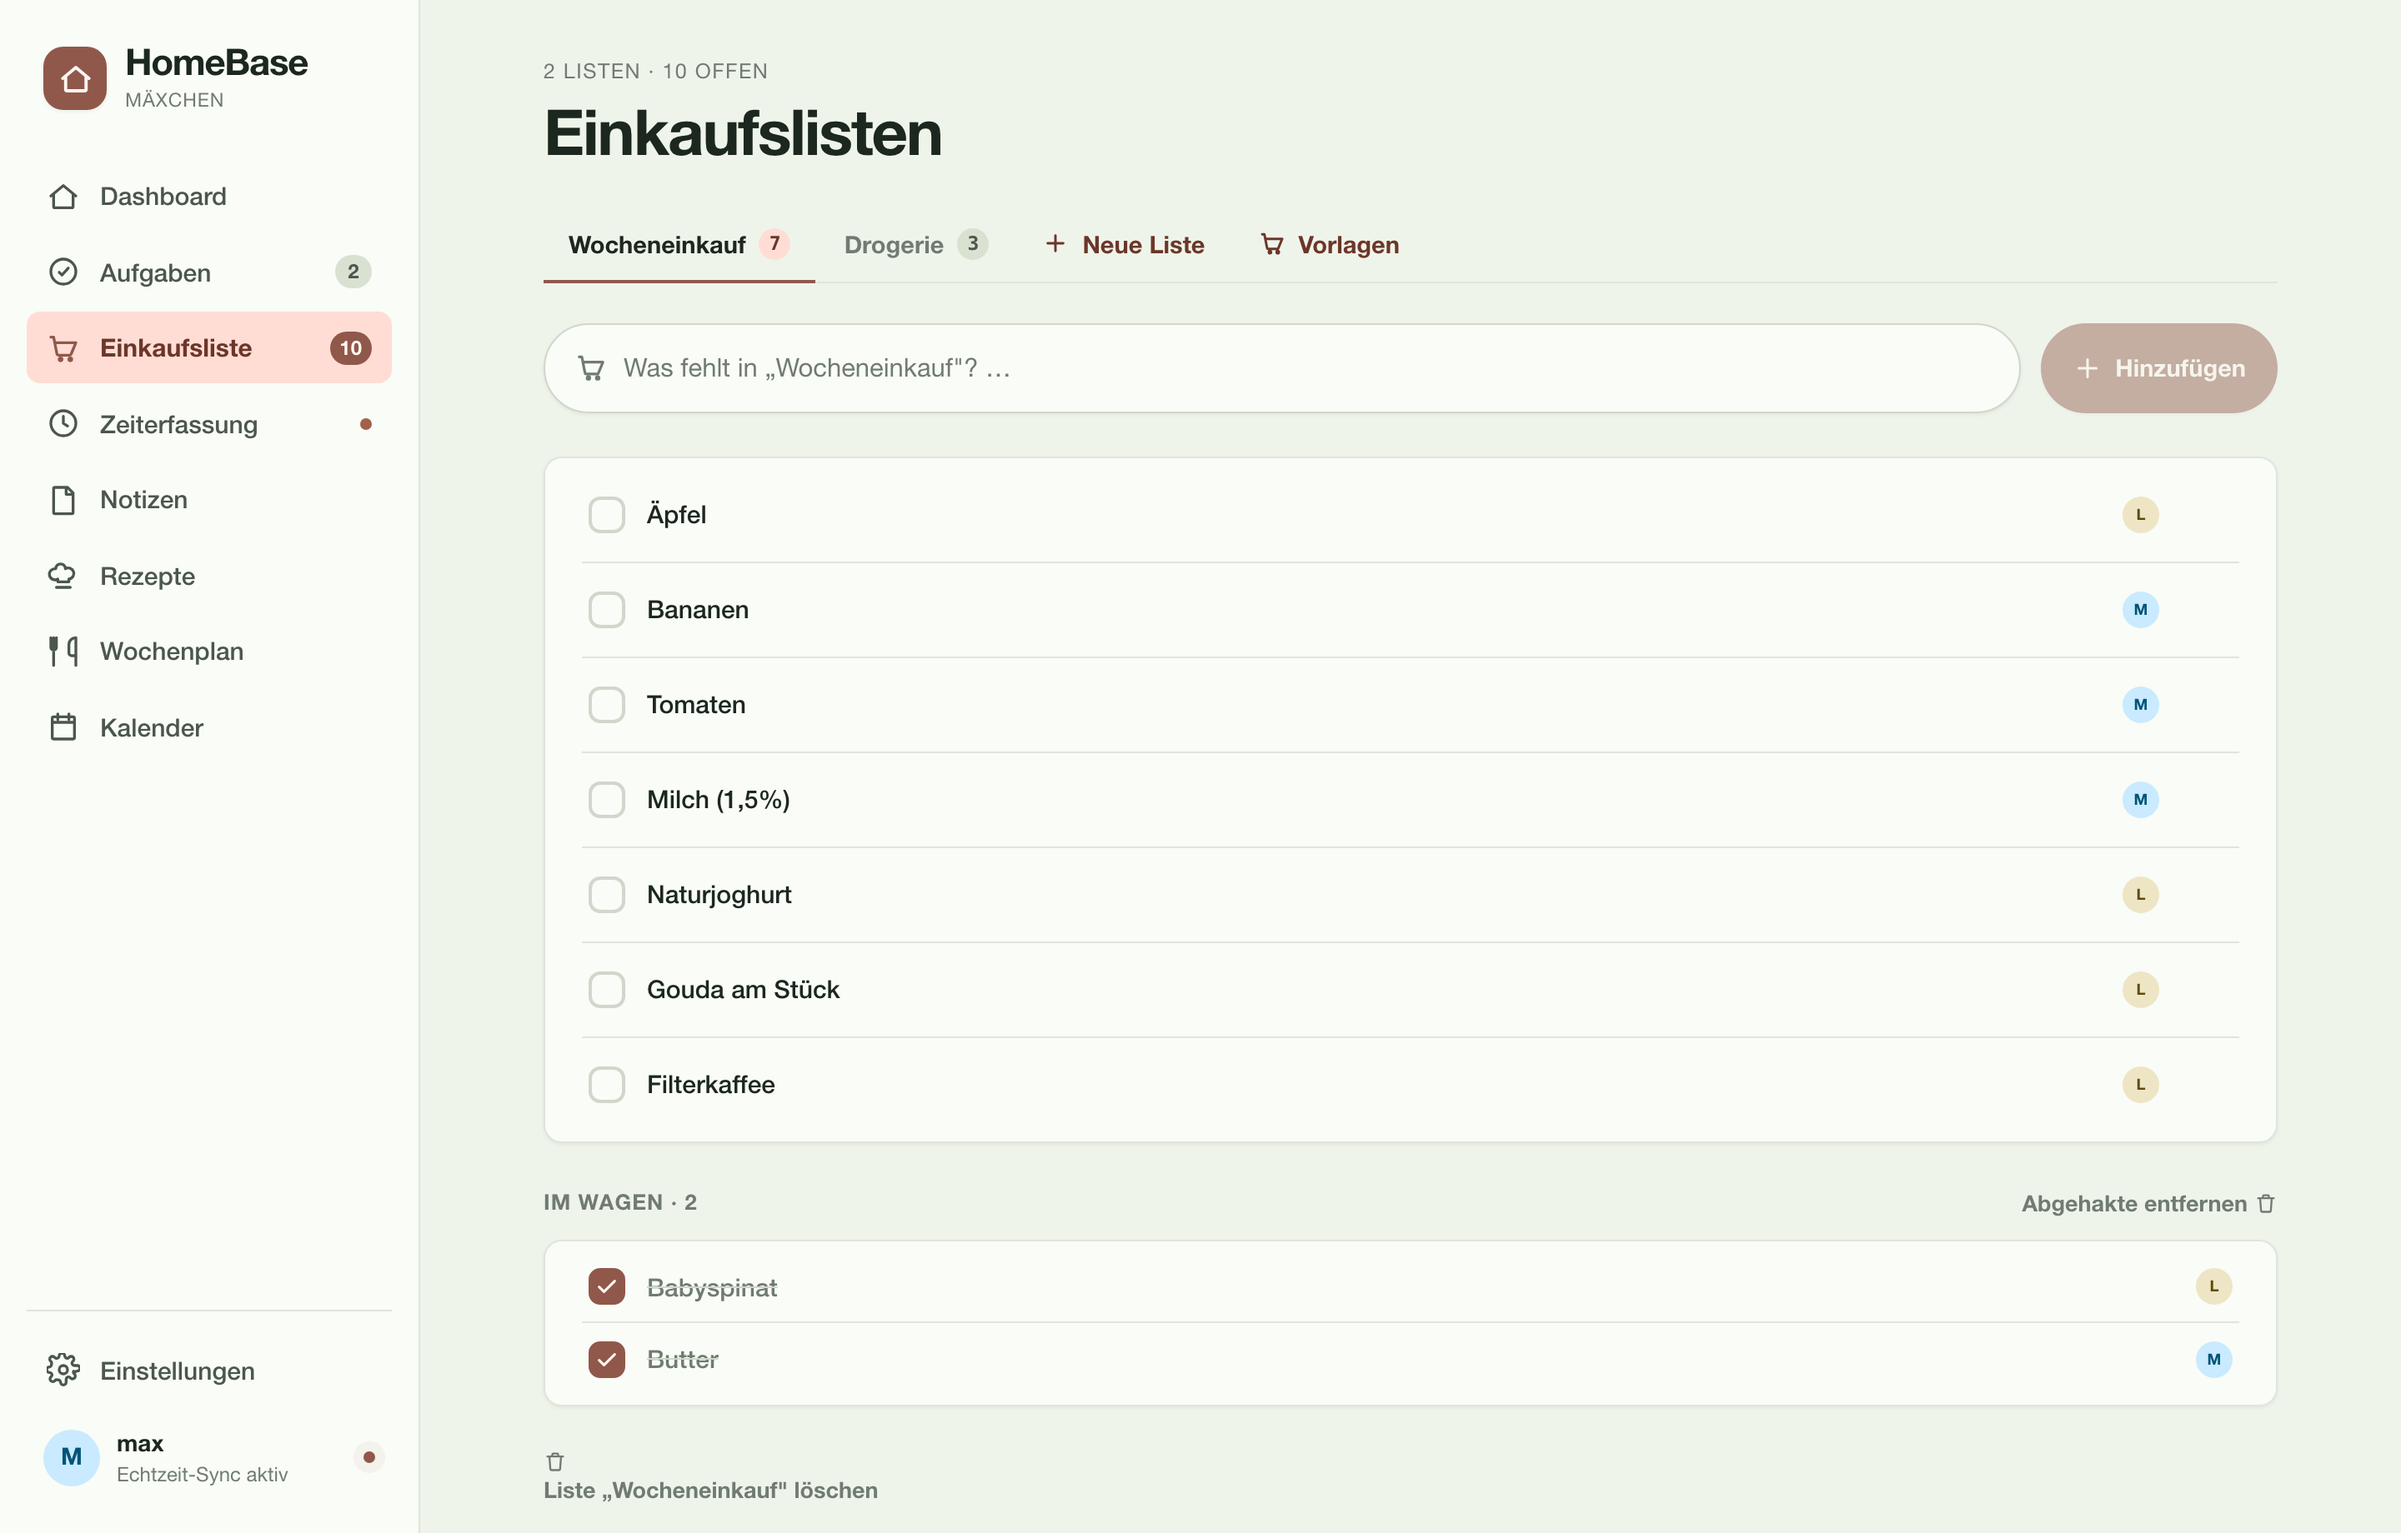
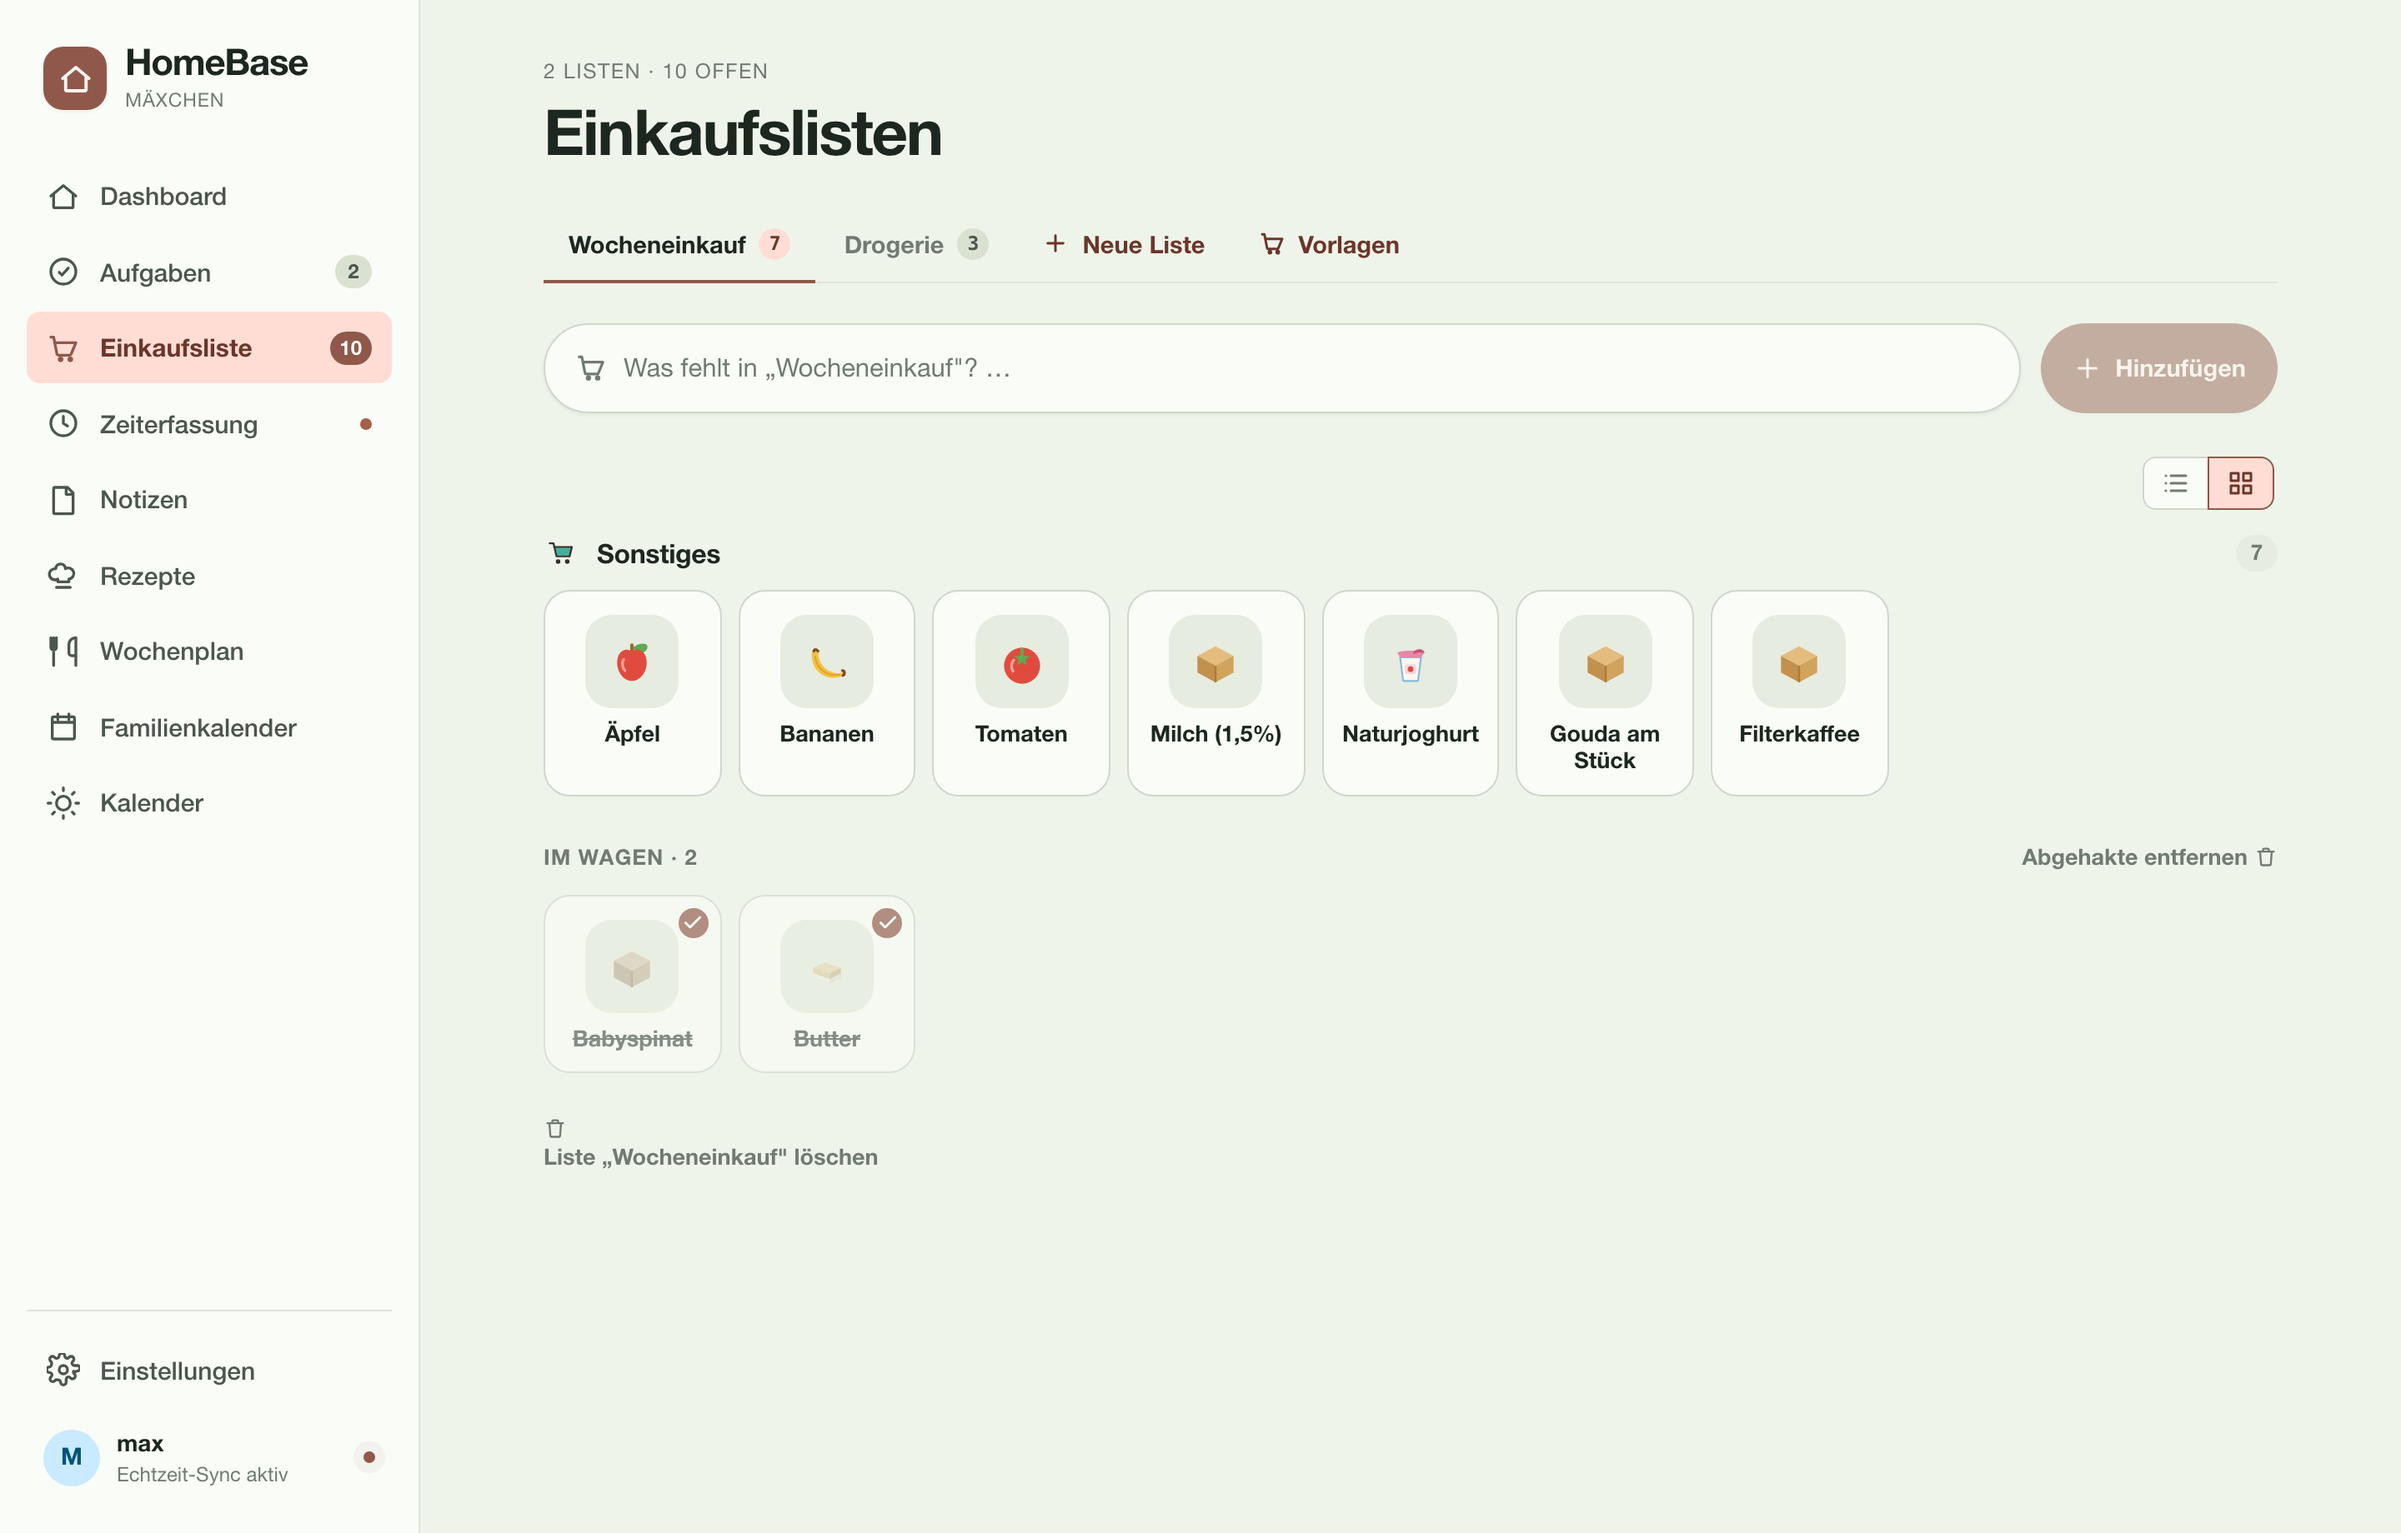
fix(ci): Screenshot-Drift + zwei flaky e2e-Tests grün (#470 #436 #459)
#470 — Web-Screenshots: render-web.spec.ts wartete im Einkauf auf .hb-row,
aber seit dem #440-Umbau ist die Kachelansicht Default (.hb-tile). Wait auf
'.hb-tile, .hb-row' geweitet und web-einkauf.png neu gerendert.

#436 — palette.spec "closes on Escape": Escape wurde nur am Such-Input
behandelt, der aber asynchron (setTimeout 0) fokussiert wird. Traf Escape
vor dem Fokus, lief der Handler nie → Palette blieb offen (Flake). Fix:
CommandPalette schließt jetzt zusätzlich über einen globalen keydown-Listener
(fokus-unabhängig); der Test wartet vor Escape auf den fokussierten Input.

#459 — recipes.spec serving-scaled: Test prüfte getByText('400 g Mehl') als
einen Textknoten, seit #440 splittet die Einkaufsansicht aber Name- und
Mengen-Detail in getrennte Spans (DOM-Reihenfolge Name→Detail). Assertion auf
die Kachel/Row umgestellt: filter hasText 'Mehl' → toContainText '400 g' (analog Milch).

Verifiziert lokal mit gepinntem freien Port: palette 8×, recipes serving-scaled
8× je grün, volle recipes-Spec + e2e-Typecheck grün, web-einkauf neu gerendert.

diff --git a/web/e2e/recipes.spec.ts b/web/e2e/recipes.spec.ts
@@ -304,11 +304,16 @@ test.describe('Recipes', () => {
     // both ingredients preselected → "2 hinzufügen"
     await sheet.getByRole('button', { name: /hinzufügen/ }).click()
 
-    // toast confirms the add, then the scaled, unit-labelled items show on the list
+    // toast confirms the add, then the scaled, unit-labelled items show on the list.
+    // Since the #440 overhaul the shopping view splits each item into a name tile + a
+    // separate quantity-detail span, so "400 g Mehl" is no longer one text node — assert
+    // on the tile carrying the name, that it also shows the scaled "<amount> <unit>" detail.
     await expect(page.getByText(/hinzugefügt/)).toBeVisible()
     await page.getByRole('button', { name: 'Einkaufsliste' }).click()
-    await expect(page.getByText('400 g Mehl')).toBeVisible()
-    await expect(page.getByText('1000 ml Milch')).toBeVisible()
+    const mehl = page.locator('.hb-tile, .hb-row').filter({ hasText: 'Mehl' })
+    await expect(mehl).toContainText('400 g')
+    const milch = page.locator('.hb-tile, .hb-row').filter({ hasText: 'Milch' })
+    await expect(milch).toContainText('1000 ml')
   })
 
   test('imports a recipe from a URL into the prefilled editor (#430)', async ({ page }) => {

diff --git a/web/src/components/CommandPalette.tsx b/web/src/components/CommandPalette.tsx
@@ -113,6 +113,18 @@ export function CommandPalette({ token, open, onClose, actions, onOpenResult }: 
     if (open) document.getElementById(`hb-cmd-opt-${sel}`)?.scrollIntoView({ block: 'nearest' })
   }, [sel, open])
 
+  // Escape closes the palette regardless of where focus currently sits. The input's own
+  // onKeyDown also handles Escape, but the input is focused asynchronously on open — a global
+  // listener makes "esc closes" deterministic even before focus settles or if focus moved away.
+  useEffect(() => {
+    if (!open) return
+    const onKey = (e: globalThis.KeyboardEvent) => {
+      if (e.key === 'Escape') { e.preventDefault(); onClose() }
+    }
+    window.addEventListener('keydown', onKey)
+    return () => window.removeEventListener('keydown', onKey)
+  }, [open, onClose])
+
   if (!open) return null
 
   const run = (e?: Entry) => {

diff --git a/web/e2e/palette.spec.ts b/web/e2e/palette.spec.ts
@@ -37,6 +37,9 @@ test.describe('Command palette (⌘K)', () => {
     await openApp(page, new MockApi())
     await page.keyboard.press('Control+k')
     await expect(page.locator('.hb-cmd')).toBeVisible()
+    // Wait for the palette to take focus (the input is focused asynchronously on open) so
+    // Escape lands deterministically; the close handler also listens globally as a backstop.
+    await expect(page.locator('.hb-cmd__input')).toBeFocused()
     await page.keyboard.press('Escape')
     await expect(page.locator('.hb-cmd')).toHaveCount(0)
   })

diff --git a/scripts/screenshots/render-web.spec.ts b/scripts/screenshots/render-web.spec.ts
@@ -84,7 +84,9 @@ test.describe('web screenshots', () => {
   test('web-einkauf', async ({ page }) => {
     await boot(page)
     await page.getByRole('button', { name: 'Einkaufsliste' }).click()
-    await waitFor(page, '.hb-row')
+    // The shopping view defaults to tile view since the #440 overhaul (items
+    // render as .hb-tile); list view still uses .hb-row — tolerate either.
+    await waitFor(page, '.hb-tile, .hb-row')
     await shoot(page, 'web-einkauf')
   })
 
